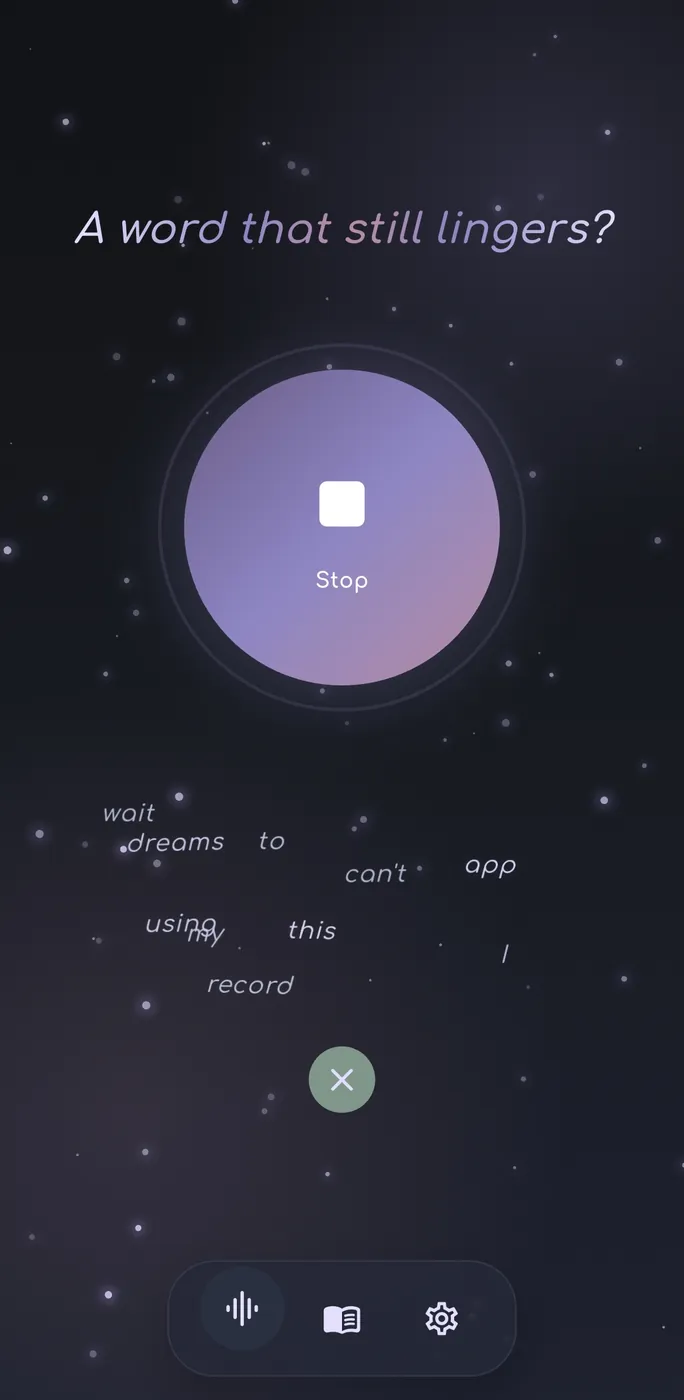
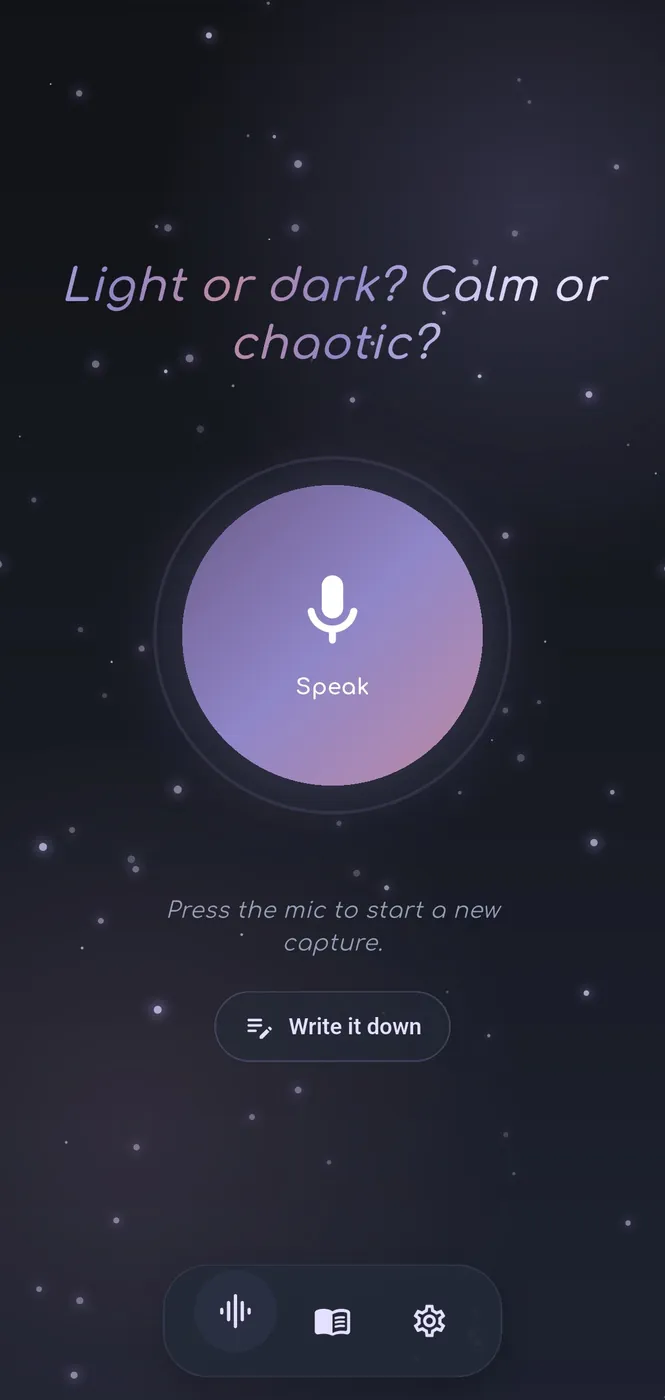
coldsnap: new Sandlog screenshots (4 screens, 16 demo dreams)

diff --git a/coldsnap/data/projects.js b/coldsnap/data/projects.js
@@ -537,11 +537,12 @@ const COLDSNAP_PROJECTS = [
     shortDescription: 'Voice dream journal: open the app, speak, and your dream is saved automatically',
     description: 'A frictionless dream journaling app designed to capture dreams the moment you wake up. Open the app and speak; Sandlog automatically stops recording when silence is detected and saves your dream entry. Recordings can be exported to the user\'s Google Drive for safe cloud storage.',
     icon: '🌙',
-    thumbnail: 'assets/projects/sandlog/sandlog-1-thumb.webp',
+    thumbnail: 'assets/projects/sandlog/sandlog-1-thumb.webp?v=20261030',
     media: [
-      'assets/projects/sandlog/sandlog-1.jpg',
-      'assets/projects/sandlog/sandlog-2.jpg',
-      'assets/projects/sandlog/sandlog-3.jpg'
+      'assets/projects/sandlog/sandlog-1.jpg?v=20261030',
+      'assets/projects/sandlog/sandlog-2.jpg?v=20261030',
+      'assets/projects/sandlog/sandlog-3.jpg?v=20261030',
+      'assets/projects/sandlog/sandlog-4.jpg?v=20261030'
     ],
     tech: ['Flutter', 'Dart', 'Google Drive API', 'Voice Recording', 'Silence Detection'],
     features: [

diff --git a/coldsnap/index.html b/coldsnap/index.html
@@ -296,7 +296,7 @@
 
   <!-- i18n runs synchronously so translated text is in place before first paint -->
   <script src="js/i18n.js?v=20261028a"></script>
-  <script src="data/projects.js?v=20261029a" defer></script>
+  <script src="data/projects.js?v=20261030a" defer></script>
   <script src="js/coldsnap.js?v=20261029b" defer></script>
   <script src="js/car-physics.js?v=20261028a" defer></script>
   <script src="js/drive.js?v=20261028a" defer></script>
